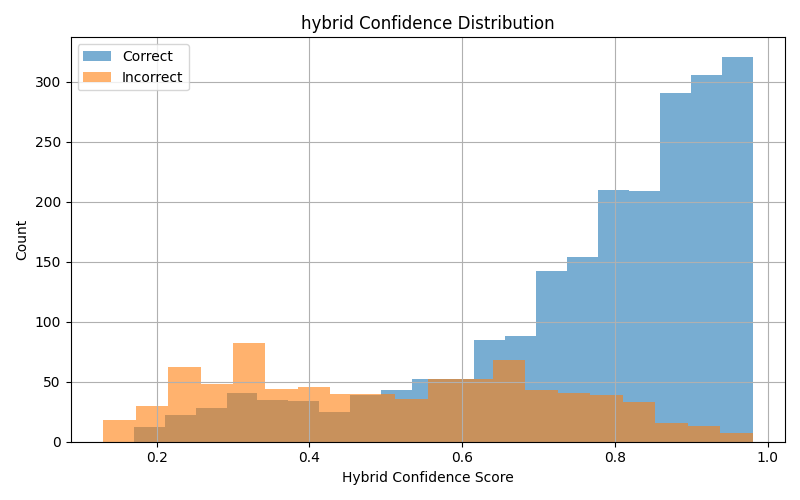
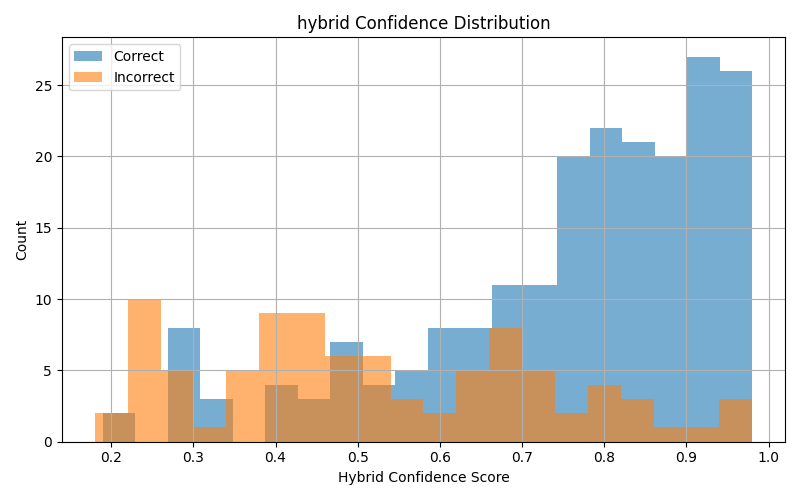
dasdasdas
sdsadasd

diff --git a/Main.py b/Main.py
@@ -103,7 +103,7 @@ for i, item in enumerate(questions, start=1):
     answer = item["answer"]
     aliases = item["aliases"]
     print("\n#################################################################################")
-    print(f"[{i}/200] {question}")
+    print(f"[{i}] {question}")
     
     # This is the entire conistency for each with long output recheck
     resultsCons = analyse_question(question, answer, aliases, n=10)